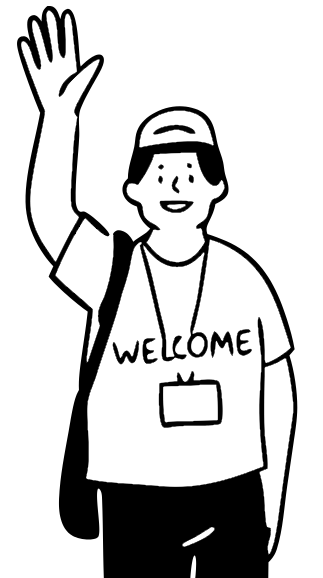
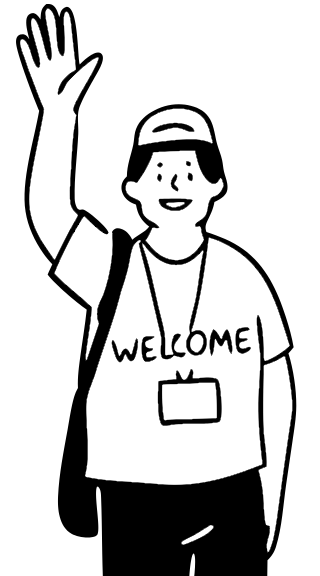
welcome guy

diff --git a/src/guides/Guide.css b/src/guides/Guide.css
@@ -28,21 +28,21 @@
     position: absolute;
     left: 0;
     bottom: 0;
-    width: 323px;
-    height: 578px;
+    width: 320px;
+    height: 576px;
     background-image: url("./guy.png");
     background-size: contain;
     background-repeat: no-repeat;
 
     @media (max-height: 800px) {
-      width: 162px;
-      height: 289px;
+      width: 160px;
+      height: 288px;
     }
   }
 
   .text {
     position: absolute;
-    left: 123px;
+    left: 120px;
     bottom: 490px;
     margin-right: 20px;
     box-sizing: border-box;
@@ -55,7 +55,7 @@
     color: #333;
 
     @media (max-height: 800px) {
-      left: 61px;
+      left: 60px;
       bottom: 245px;
     }
 

diff --git a/src/desks/DeskContext.ts b/src/desks/DeskContext.ts
@@ -11,7 +11,6 @@ export const DeskContext = createContext<{
 
   createPrompt: CreatePrompt | undefined;
   setCreatePrompt: (createPrompt: CreatePrompt | undefined) => void;
-  createPromptRef: RefObject<HTMLDivElement>;
 
   cards: Card[];
   setCards: Dispatch<SetStateAction<Card[]>>;
@@ -24,7 +23,6 @@ export const DeskContext = createContext<{
 
   createPrompt: undefined,
   setCreatePrompt: () => {},
-  createPromptRef: { current: null },
 
   cards: [],
   setCards: () => {},
